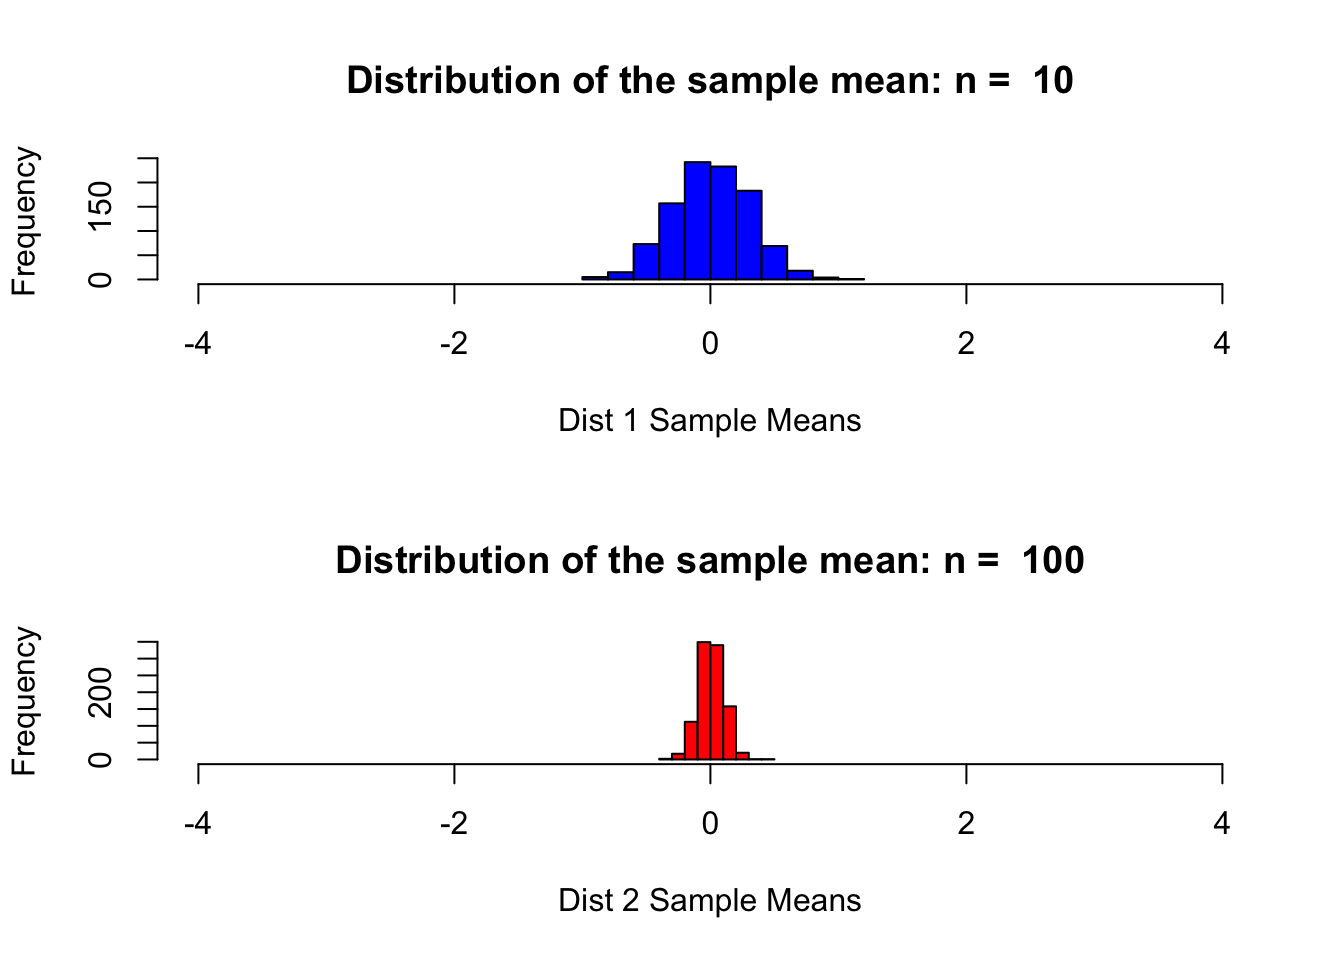
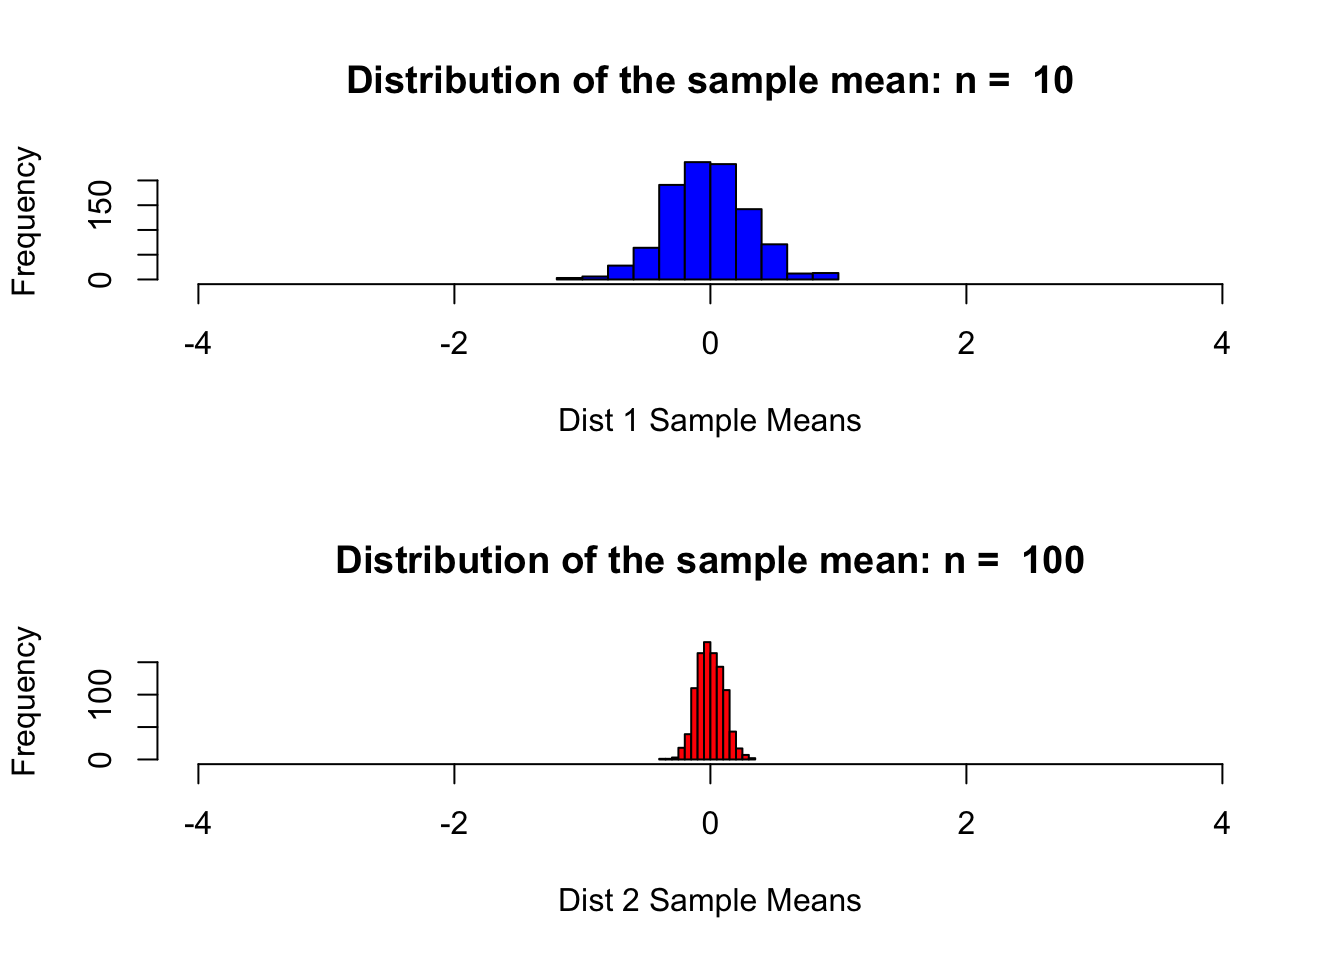
updated

diff --git a/CLT_2.html b/CLT_2.html
@@ -346,15 +346,15 @@ hist(xbar_holder2, col = &quot;red&quot;, main = paste(&quot;Distribution of the
 <div id="summary-statistics" class="section level2">
 <h2>Summary Statistics</h2>
 <pre class="r"><code>summary(xbar_holder1) #5 number summary and the mean</code></pre>
-<pre><code>##      Min.   1st Qu.    Median      Mean   3rd Qu.      Max. 
-## -0.957792 -0.200345  0.004121  0.008634  0.224262  1.074327</code></pre>
+<pre><code>##     Min.  1st Qu.   Median     Mean  3rd Qu.     Max. 
+## -1.05764 -0.23822 -0.02495 -0.02072  0.18623  0.98559</code></pre>
 <pre class="r"><code>summary(xbar_holder2) #5 number summary and the mean</code></pre>
-<pre><code>##      Min.   1st Qu.    Median      Mean   3rd Qu.      Max. 
-## -0.353376 -0.060249  0.006879  0.006062  0.074214  0.418626</code></pre>
+<pre><code>##       Min.    1st Qu.     Median       Mean    3rd Qu.       Max. 
+## -0.3728857 -0.0704374 -0.0042507 -0.0004069  0.0721253  0.3231114</code></pre>
 <pre class="r"><code>sd(xbar_holder1) # standard deviation of dstribuion 1</code></pre>
-<pre><code>## [1] 0.3030836</code></pre>
+<pre><code>## [1] 0.3248423</code></pre>
 <pre class="r"><code>sd(xbar_holder2) #standard deviation of distribuion 2</code></pre>
-<pre><code>## [1] 0.09936062</code></pre>
+<pre><code>## [1] 0.1023303</code></pre>
 </div>
 </div>
 

diff --git a/index.html b/index.html
@@ -299,7 +299,7 @@ $(document).ready(function () {
 </div>
 
 
-<p>&lt;hoangnguyen.us&gt; <a href="http://www.hoangnguyen.us" class="uri">http://www.hoangnguyen.us</a> test2</p>
+<p><a href="http://www.hoangnguyen.us">hoangnguyen.us</a></p>
 
 
 
